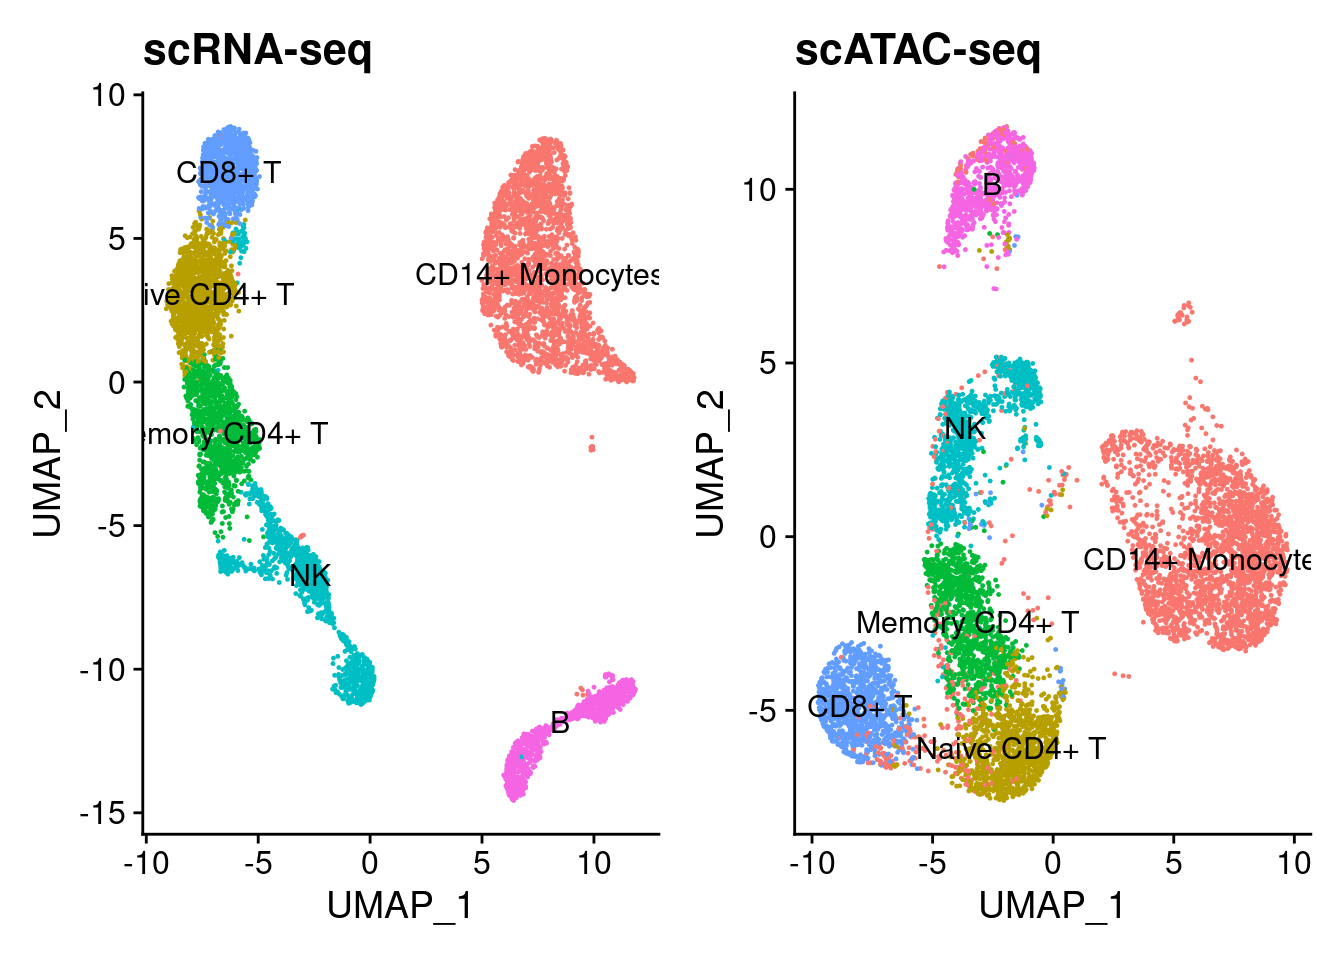
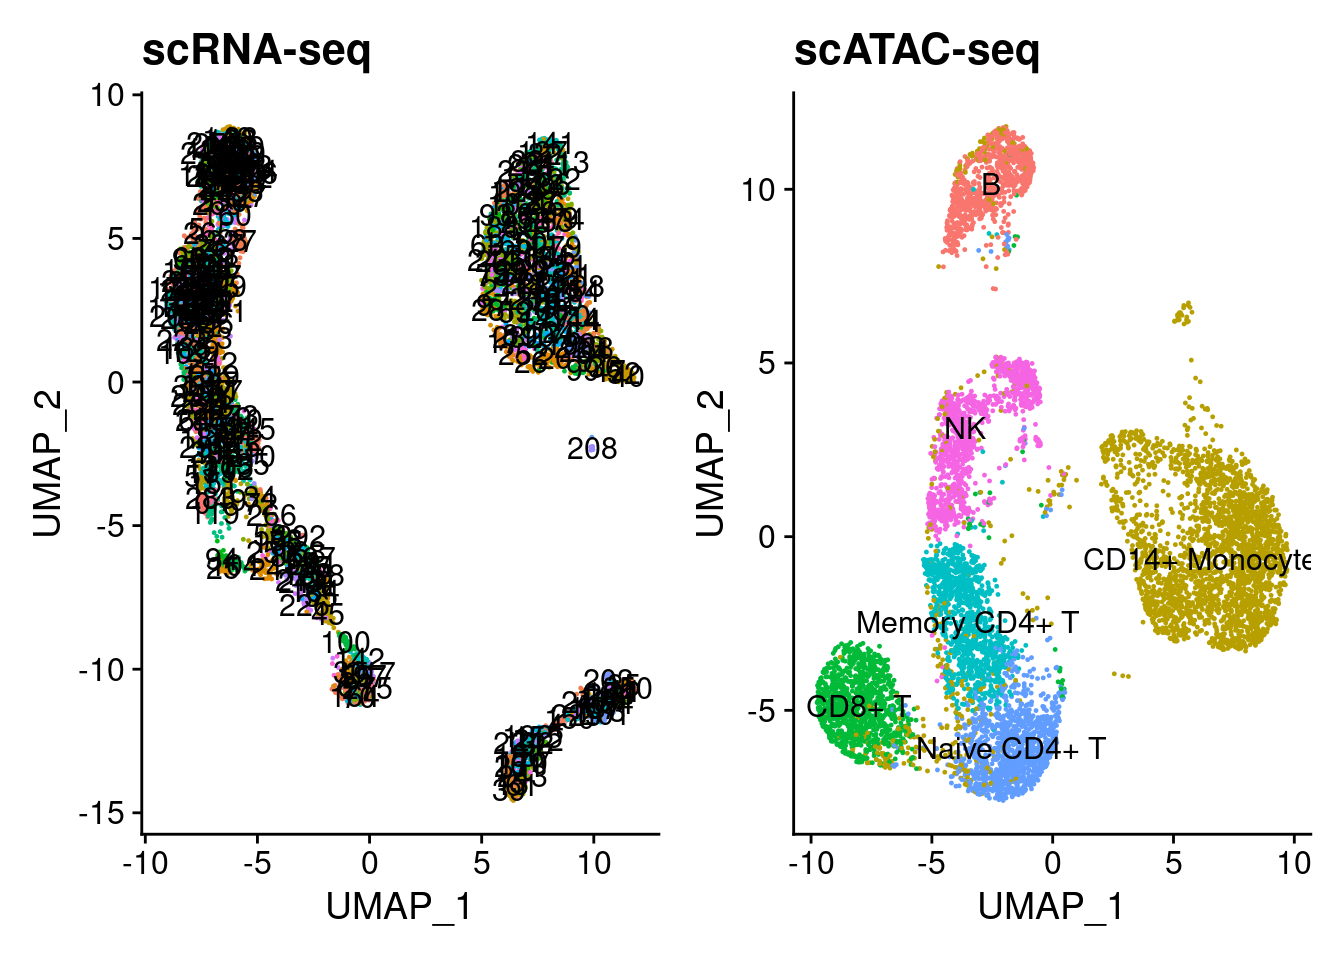
new benchmarks

diff --git a/integration_workflow.html b/integration_workflow.html
@@ -428,7 +428,7 @@ boxplot(scores_disagree, scores_agree, names = c(&#39;Disagree&#39;,&#39;Agree&#
 <div id="label-transfer" class="section level2">
 <h2>Label Transfer</h2>
 <p>Having obtained anchors, we can perform label transfer from RNA to ATAC. Below I show the the ATAC UMAP with labels transferred from RNA.</p>
-<pre class="r"><code>s.atac &lt;- suppressMessages(transfer_data(ATAC = s.atac, data = Idents(s.rna), anchors = anchors))
+<pre class="r"><code>s.atac &lt;- suppressMessages(transfer_data(ATAC = s.atac, data = s.rna$clusters, anchors = anchors))
 p1 &lt;- DimPlot(s.rna, label=T) + NoLegend() + ggtitle(&#39;scRNA-seq&#39;)
 p2 &lt;- DimPlot(s.atac, label=T, group.by=&#39;RNA_IDENT&#39;) + NoLegend() + ggtitle(&#39;scATAC-seq&#39;)
 p1 + p2</code></pre>
@@ -517,36 +517,20 @@ for(i in 1:n){
 hist(cell.cor, xlab=&#39;Pearson&#39;, main=&#39;Cells&#39;)
 hist(gene.cor, xlab=&#39;Pearson&#39;, main=&#39;Top 100 Genes&#39;)</code></pre>
 <p><img src="integration_workflow_files/figure-html/unnamed-chunk-19-1.png" width="672" /></p>
-<div id="co-expression-of-pair-markers" class="section level4">
-<h4>Co-expression of pair markers</h4>
-<p>Below we check that co-expressed marker genes remain co-expressed in the imputed data</p>
-<pre class="r"><code>gene.1 &lt;- c(&quot;IL7R&quot;,&quot;IL7R&quot;,&quot;CD14&quot;,&quot;FCGR3A&quot;,&quot;FCER1A&quot;,&quot;MS4A1&quot;)
-gene.2 &lt;- c(&quot;CCR7&quot;,&quot;S100A4&quot;,&quot;LYZ&quot;,&quot;MS4A7&quot;,&quot;CST3&quot;, &quot;CD79A&quot;)
-k &lt;- length(gene.1)
-imputed.cors &lt;- rep(0, k)
-og.cors &lt;- rep(0, k)
-text.lab &lt;- rep(0, k)
-for(i in 1:k){
-  imputed.cors[i] &lt;- cor(imputed.rna.mat[gene.1[i],], imputed.rna.mat[gene.2[i],])
-  og.cors[i] &lt;- cor(og.data[gene.1[i],], og.data[gene.2[i],])
-  text.lab[i] &lt;- paste0(gene.1[i],&#39;/&#39;,gene.2[i])
-}</code></pre>
-<pre class="r"><code>plot(og.cors, imputed.cors, pch=16, xlab=&#39;Original Data Pearson&#39;, ylab=&#39;Transfer Data Pearson&#39;, xlim = c(-0.2,1), ylim=c(-0.2,1))
-text(x = og.cors, y = imputed.cors, labels = text.lab, pos = 4)
-abline(a = 0, b = 1, col=&#39;red&#39;)</code></pre>
-<p><img src="integration_workflow_files/figure-html/unnamed-chunk-21-1.png" width="672" /></p>
 <p>As we can see, co-expressed genes remain co-expressed in the transferred RNA.</p>
-</div>
 <div id="enhancergene-correlations" class="section level4">
 <h4>Enhancer/gene correlations</h4>
-<pre class="r"><code>imputed.rna.mat &lt;- as.matrix(imputed.rna@data)
-og.data &lt;- as.matrix(s.rna@assays$RNA@data)</code></pre>
-<p>Here, we find all genes within 100kb of all peaks in the scATAC-seq data (~62k peaks)</p>
+<p>Here, we find all genes within 100kb of all peaks in the scATAC-seq data (~62k peaks). We will use aggregated RNA and ATAC-seq (pseudo-cells) to find robust correlations.</p>
+<pre class="r"><code>satac_agg &lt;- readRDS(&#39;data/Seurat/agg_atac_seurat.rds&#39;)
+srna_agg &lt;- readRDS(&#39;data/Seurat/agg_rna_seurat.rds&#39;)</code></pre>
+<p>Here each each dot represents ~28 cells. The pseudo-cells are labeled by the labels of their RNA counterpart. As we can see, the pseudo-cells cluster together.</p>
+<pre class="r"><code>DimPlot(satac_agg, group.by=&#39;clusters&#39;, label=T) + LegendOff() + ggtitle(&#39;Pseuo-cell ATAC-seq&#39;)</code></pre>
+<p><img src="integration_workflow_files/figure-html/unnamed-chunk-21-1.png" width="672" /></p>
 <pre class="r"><code>annotations &lt;- suppressWarnings(suppressMessages(GetGRangesFromEnsDb(ensdb = EnsDb.Hsapiens.v86::EnsDb.Hsapiens.v86, verbose = F)))
 ensembldb::seqlevelsStyle(annotations) &lt;- &quot;UCSC&quot;
 exon_annotations &lt;- annotations[annotations$type==&quot;exon&quot;,]
 
-DA_peaks_GR &lt;- granges(s.atac)
+DA_peaks_GR &lt;- granges(satac_agg)
 DA_peaks_genes &lt;- plyranges::join_overlap_left(x = DA_peaks_GR, y = exon_annotations, maxgap=100000, minoverlap=0)</code></pre>
 <pre><code>## Warning in .Seqinfo.mergexy(x, y): Each of the 2 combined objects has sequence levels not in the other:
 ##   - in &#39;x&#39;: GL000194.1, GL000195.1, GL000205.2, GL000219.1, KI270713.1, KI270726.1, KI270727.1, KI270728.1
@@ -561,10 +545,12 @@ genes &lt;- genes[!duplicated(comb)]
 
 enhancers_genes_df &lt;- cbind(peakies, genes)
 enhancers_genes_df &lt;- enhancers_genes_df[!is.na(enhancers_genes_df[,&quot;genes&quot;]),]</code></pre>
-<pre class="r"><code>enhancers_genes_df &lt;- enhancers_genes_df[enhancers_genes_df[,&quot;genes&quot;] %in% rownames(og.data),]
-atac.mat &lt;- as.matrix(s.atac@assays$peaks@data)
-DA.atac.mat &lt;- atac.mat[enhancers_genes_df[,&quot;peakies&quot;],]
-genes.DA.rna.mat &lt;- og.data[enhancers_genes_df[,&quot;genes&quot;],]</code></pre>
+<pre class="r"><code>agg.atac.mat &lt;- as.matrix(satac_agg@assays$peaks@data)
+agg.rna.mat &lt;- as.matrix(srna_agg@assays$RNA@data)
+
+enhancers_genes_df &lt;- enhancers_genes_df[enhancers_genes_df[,&quot;genes&quot;] %in% rownames(agg.rna.mat),]
+DA.atac.mat &lt;- agg.atac.mat[enhancers_genes_df[,&quot;peakies&quot;],]
+genes.DA.rna.mat &lt;- agg.rna.mat[enhancers_genes_df[,&quot;genes&quot;],]</code></pre>
 <p>Get correlations between peaks and true RNA-seq data across all cells</p>
 <pre class="r"><code>row_by_row_cor &lt;- function(A, B){
   p1 &lt;- dim(A)[1]
@@ -584,13 +570,57 @@ genes.DA.rna.mat &lt;- og.data[enhancers_genes_df[,&quot;genes&quot;],]</code></
   return(rr_cors)
 }</code></pre>
 <pre class="r"><code>gene_enhancer_cor &lt;- row_by_row_cor(A = DA.atac.mat, B = genes.DA.rna.mat)</code></pre>
+<p>Transfer RNA counts to ATAC-seq cells</p>
+<pre class="r"><code>og.data &lt;- as.matrix(s.rna@assays$RNA@counts)
+imputed.rna &lt;- suppressMessages(TransferData(anchorset = anchors, refdata = og.data, weight.reduction = &#39;cca&#39;))</code></pre>
+<p>Aggregate the transferred RNA data, so we can compare to the original aggregated data.</p>
+<pre class="r"><code>aggregate.counts &lt;- list()
+imputed.counts &lt;- as.matrix(imputed.rna@data)
+for(i in unique(s.rna$seurat_clusters)){
+  sub.counts &lt;- imputed.counts[,s.rna$seurat_clusters == i]
+  aggregate.counts[[i]] &lt;- rowSums(sub.counts)
+}
+aggregate.counts &lt;- as.data.frame(aggregate.counts)
+colnames(aggregate.counts) &lt;- 1:ncol(aggregate.counts)
+
+imputed_srna_agg &lt;- CreateSeuratObject(counts = aggregate.counts)
+imputed_srna_agg &lt;- NormalizeData(imputed_srna_agg)
+imputed_srna_agg_mat &lt;- as.matrix(imputed_srna_agg@assays$RNA@data)</code></pre>
 <p>Get correlations between peaks and imputed/transferred RNA-seq data across all cells</p>
-<pre class="r"><code>genes.DA.imputed.rna.mat &lt;- imputed.rna.mat[enhancers_genes_df[,&quot;genes&quot;],]
-gene_enhancer_impt_cor &lt;- row_by_row_cor(A = DA.atac.mat, B = genes.DA.imputed.rna.mat)</code></pre>
-<p>Compare correlations.</p>
-<pre class="r"><code>plot(gene_enhancer_cor, gene_enhancer_impt_cor, xlab=&#39;Peak-Gene Pearson (True RNA)&#39;, ylab=&#39;Peak-Gene Pearson (Transferred RNA)&#39;, pch=16)
-abline(a = 0, b = 1, col=&#39;red&#39;)</code></pre>
-<p><img src="integration_workflow_files/figure-html/unnamed-chunk-28-1.png" width="672" /></p>
+<pre class="r"><code>genes.DA.rna.imputed.mat &lt;- imputed_srna_agg_mat[enhancers_genes_df[,&quot;genes&quot;],]
+
+gene_enhancer_cor_imputed &lt;- row_by_row_cor(A = DA.atac.mat, B = genes.DA.rna.imputed.mat)</code></pre>
+<p>Correlations before vs after imputation</p>
+<pre class="r"><code>plot.df &lt;- data.frame(imputed_cor = gene_enhancer_cor_imputed, true_cor=gene_enhancer_cor)
+plot.df &lt;- plot.df %&gt;% drop_na()
+get_density &lt;- function(x, y, ...) {
+  dens &lt;- MASS::kde2d(x, y, ...)
+  ix &lt;- findInterval(x, dens$x)
+  iy &lt;- findInterval(y, dens$y)
+  ii &lt;- cbind(ix, iy)
+  return(dens$z[ii])
+}
+plot.df$density &lt;- get_density(plot.df$imputed_cor, plot.df$true_cor)
+
+ggplot(plot.df, aes(x=imputed_cor, y=true_cor, color=density)) + geom_point() + ggtitle(&#39;Gene-Peak Correlation with Transfered RNA&#39;) + xlab(&#39;Pearson (imputed)&#39;) + ylab(&#39;Pearson (original)&#39;) + geom_abline(slope = 1, color=&quot;red&quot;, linetype=&quot;dashed&quot;) + ggClean() + scale_color_viridis()</code></pre>
+<p><img src="integration_workflow_files/figure-html/unnamed-chunk-29-1.png" width="672" /></p>
+<pre class="r"><code>cors &lt;- seq(0.1, 0.9, by=0.05)
+recall &lt;- rep(0, length(cors))
+precision &lt;- rep(0, length(cors))
+peak_gene_str &lt;- paste0(enhancers_genes_df[,&quot;peakies&quot;],&#39;-&#39;,enhancers_genes_df[,&quot;genes&quot;])
+
+for(i in 1:length(cors)){
+  
+  ground_truth_pairs &lt;- peak_gene_str[which(abs(gene_enhancer_cor) &gt; cors[i])]
+  inferred_pairs &lt;- peak_gene_str[which(abs(gene_enhancer_cor_imputed) &gt; cors[i])]
+
+  recall[i] &lt;- length(intersect(inferred_pairs,ground_truth_pairs))/length(ground_truth_pairs)
+  precision[i] &lt;- length(intersect(inferred_pairs,ground_truth_pairs))/length(inferred_pairs)
+  
+}</code></pre>
+<pre class="r"><code>re.pre.df &lt;- data.frame(recall=recall, precision=precision, pearson=cors)
+ggplot(re.pre.df, aes(x=precision, y = recall, color=pearson)) + geom_point() + geom_line() + ggClean()</code></pre>
+<p><img src="integration_workflow_files/figure-html/unnamed-chunk-31-1.png" width="672" /></p>
 </div>
 </div>
 </div>
